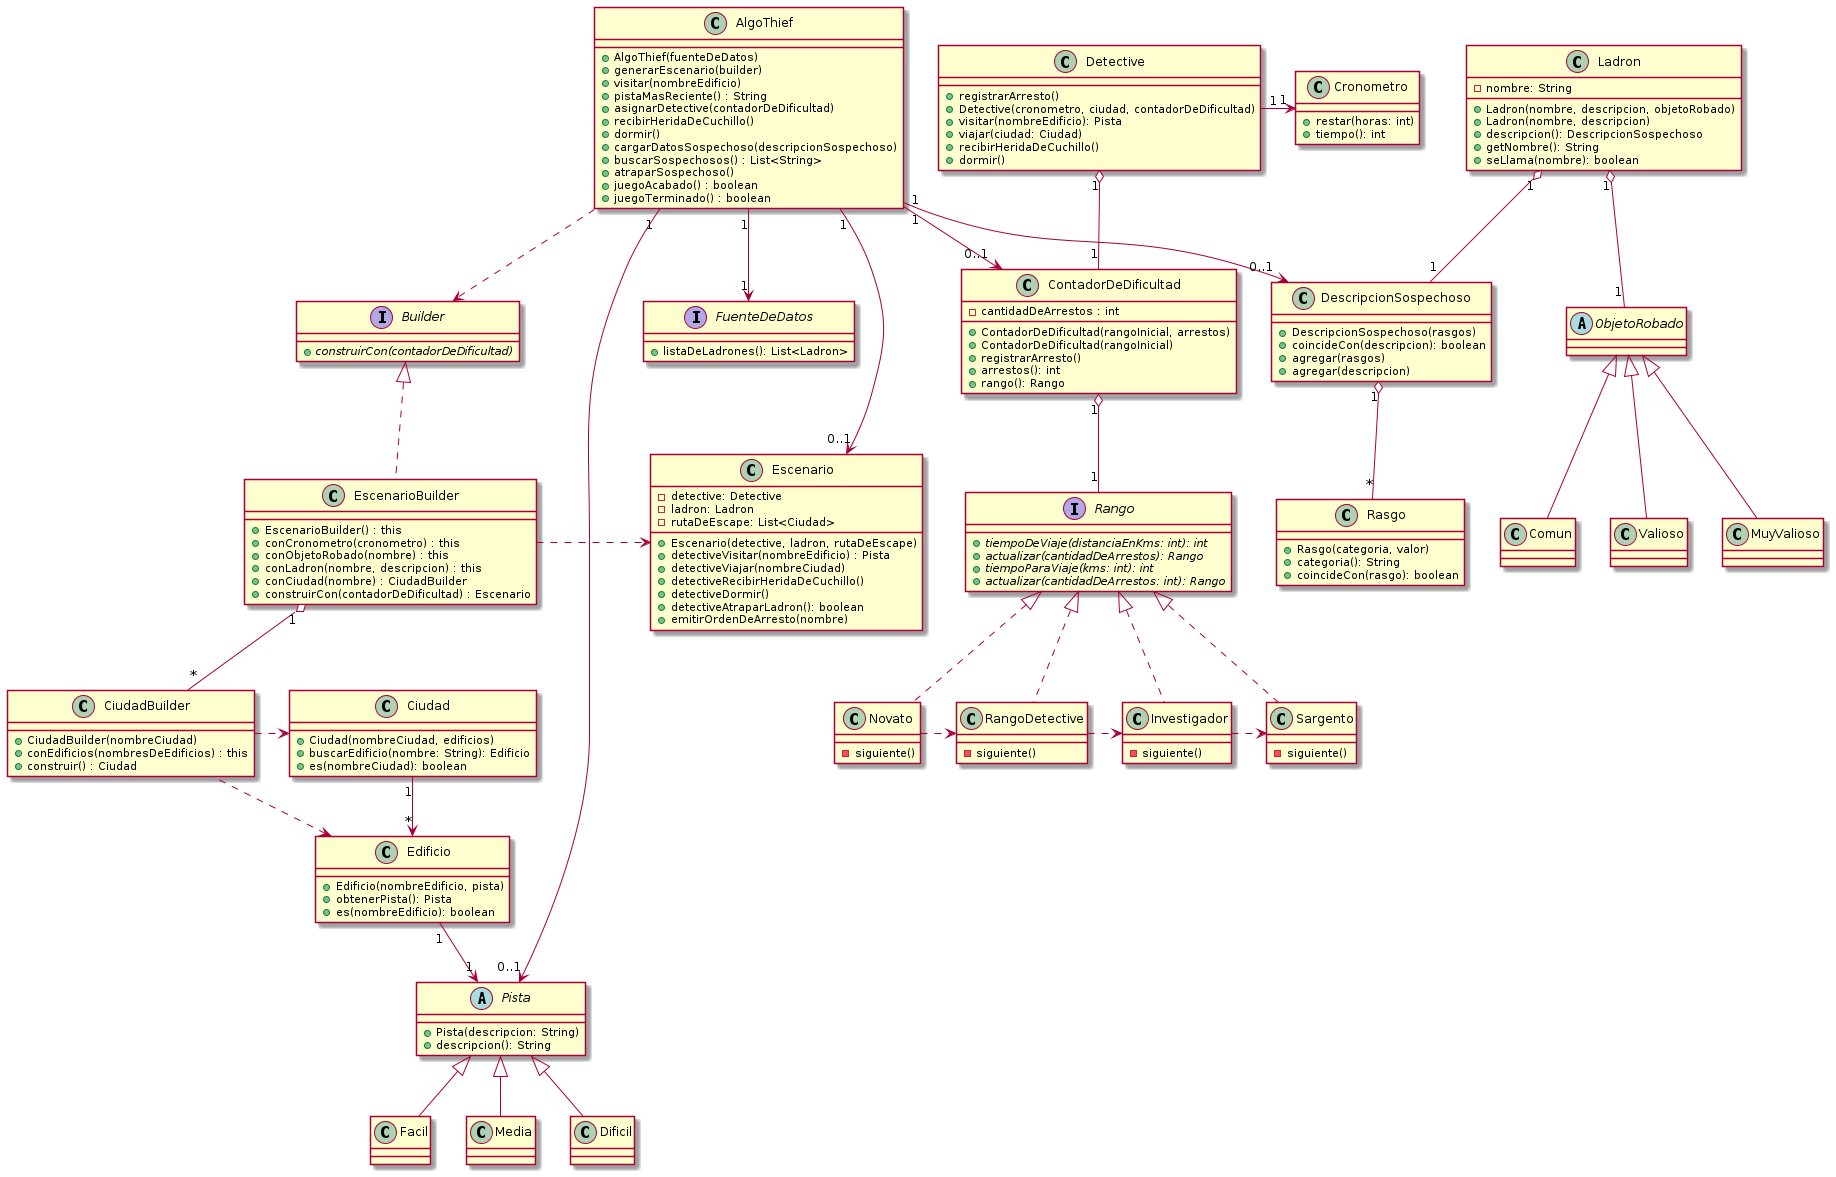
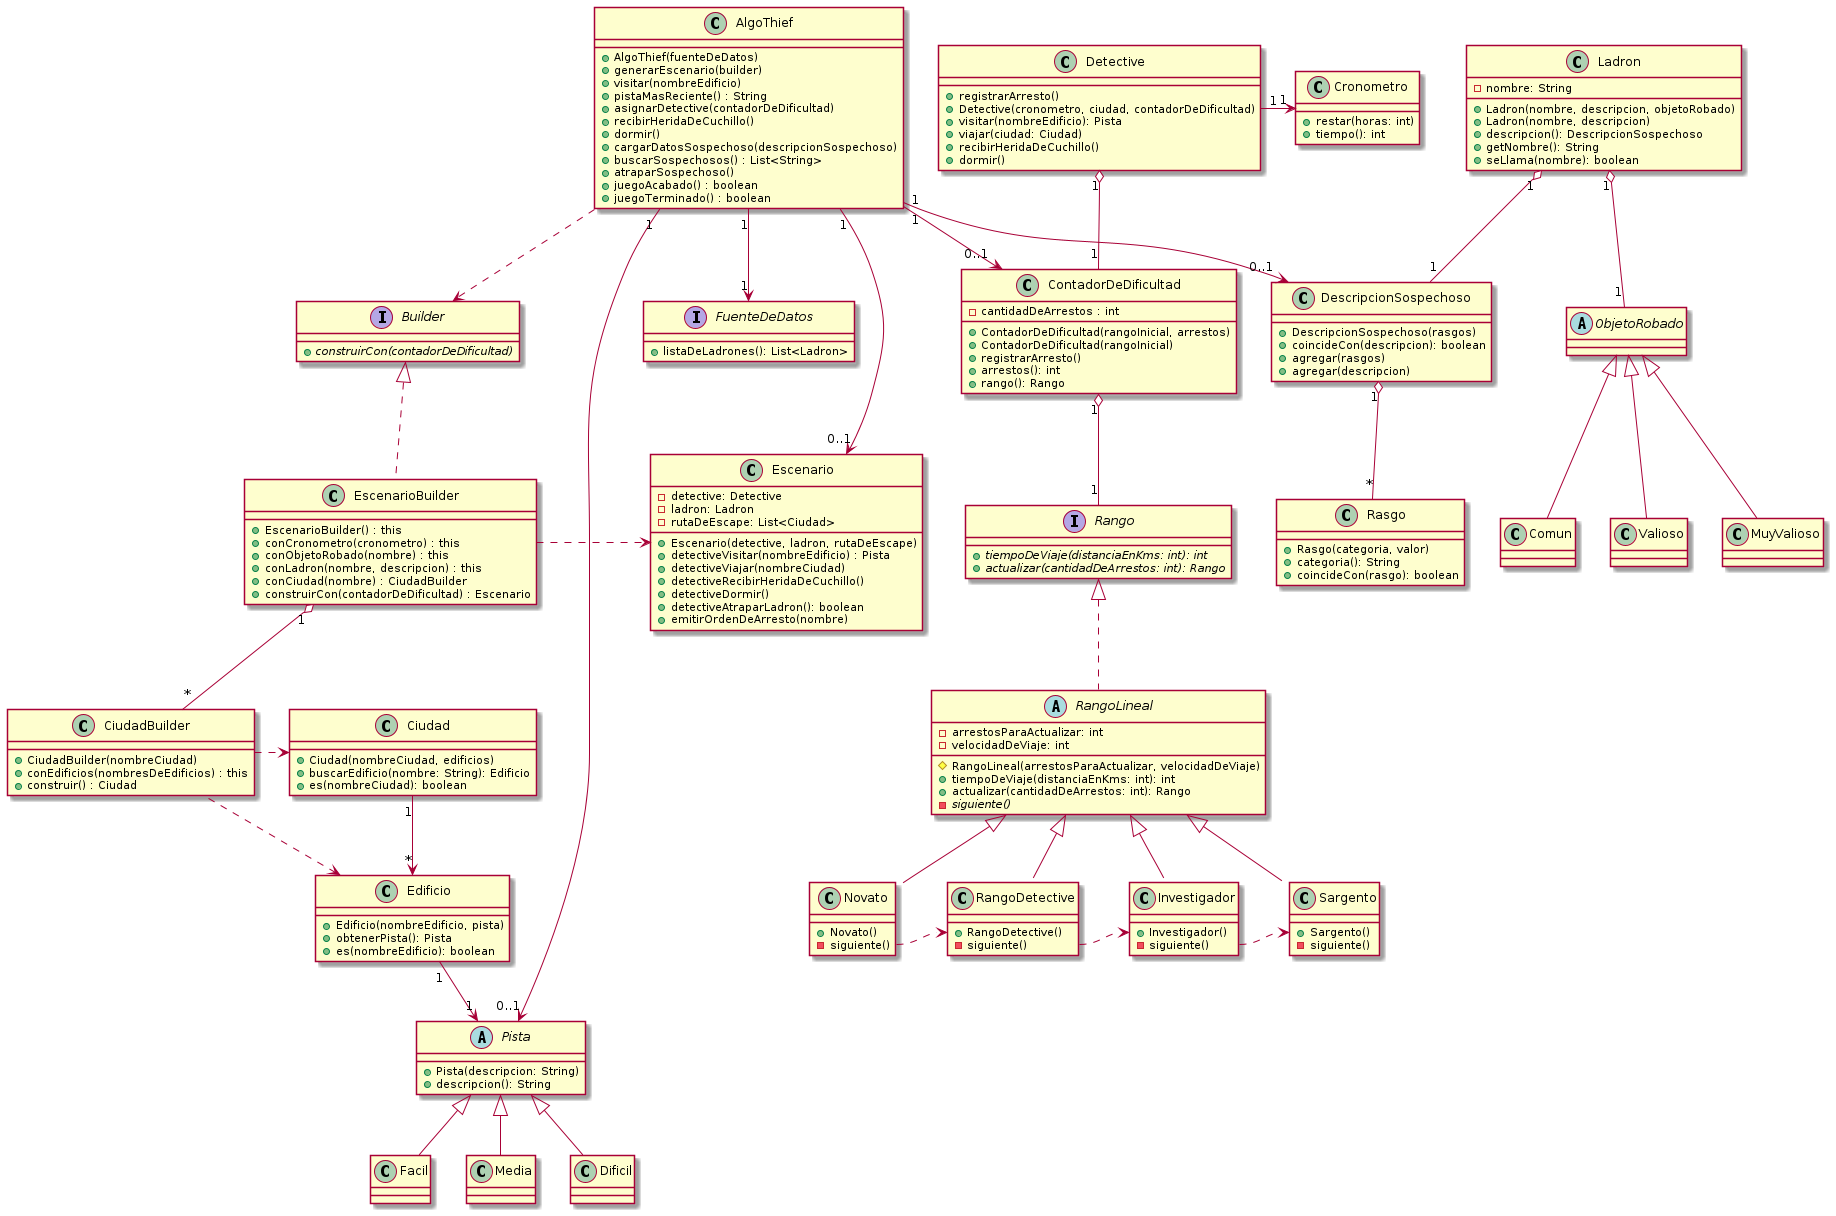
docs: actualizo diagramas de clase
* separo el diagrama secuencia_entrega1_testcase01.plantuml en dos

diff --git a/src/main/java/edu/fiuba/algo3/modelo/rango/RangoLineal.java b/src/main/java/edu/fiuba/algo3/modelo/rango/RangoLineal.java
@@ -5,7 +5,7 @@ public abstract class RangoLineal implements Rango {
     private final int arrestosParaActualizar;
     private final int velocidadDeViaje;
 
-    public RangoLineal(int arrestosParaActualizar, int velocidadDeViaje) {
+    protected RangoLineal(int arrestosParaActualizar, int velocidadDeViaje) {
         this.arrestosParaActualizar = arrestosParaActualizar;
         this.velocidadDeViaje = velocidadDeViaje;
     }
